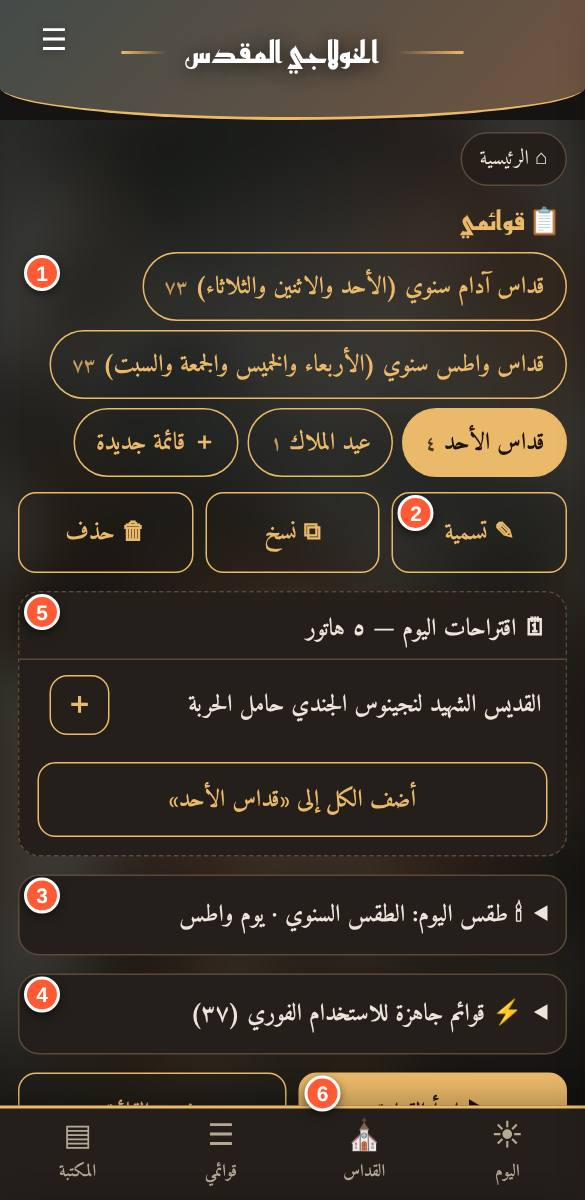
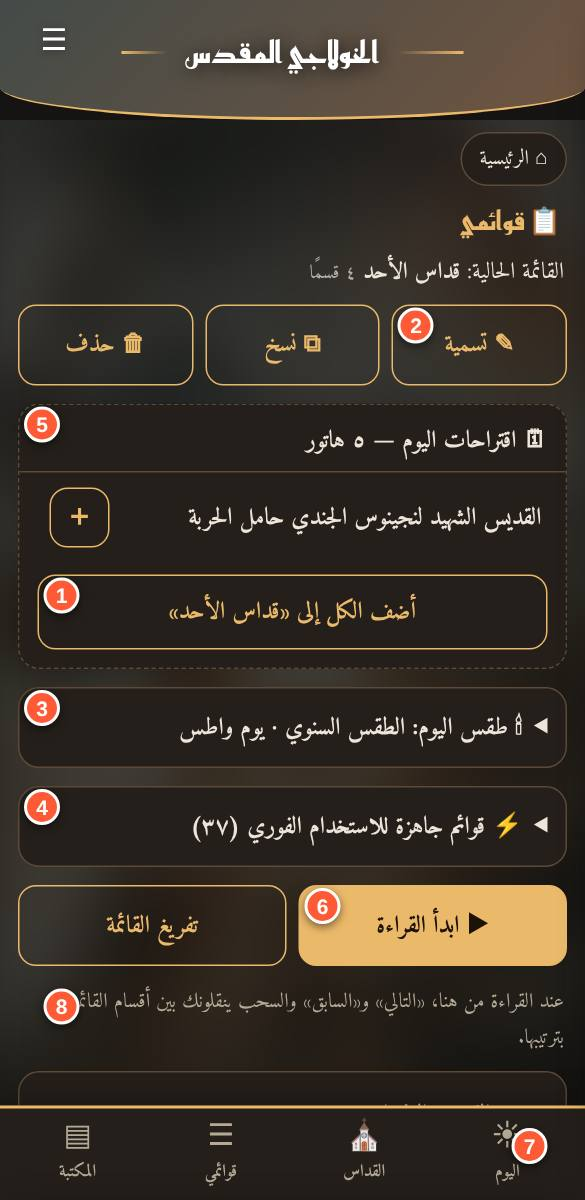
قائمة القوائم في أسفل «قوائمي» بدل شريط الاختصارات، مع حذف كل قائمة خاصة (1.5.9)
Claude-Session: https://claude.ai/code/session_01TxsQH8W41ZBNhnMhe9bVaK

Changed region(s): [[0.0308, 0.2158, 0.9846, 0.9867], [0.2154, 0.8942, 0.2462, 0.925], [0.0308, 0.8942, 0.0615, 0.925]]

diff --git a/index.html b/index.html
@@ -569,6 +569,7 @@ html{scroll-padding-top:var(--tbh,0px)}
 .vx{display:flex;align-items:center;gap:10px;margin:2px 14px;color:var(--acc)}
 .vx:before,.vx:after{content:"";flex:1;height:2px;background:linear-gradient(90deg,transparent,var(--acc),transparent);opacity:.55}
 .vx span{font-size:calc(var(--fs)*.9);line-height:1}
+.dxcur{margin:0 14px 8px;font-size:calc(var(--fs)*.7)}.dxcur small{opacity:.7}.dxall .dxi.cur{border-color:var(--acc)}
 .dxpre{margin:0 12px 12px;border:1.5px solid var(--line);border-radius:14px;background:var(--card)}.dxpre>summary{padding:12px;font-weight:700;cursor:pointer}
 .dxtd .dxsn{display:block;padding:0 14px 6px;color:var(--mute);font-size:.8rem}
 .dxi .go small{display:block;font-weight:400;font-size:0.72rem;color:var(--mute)}
@@ -1324,7 +1325,7 @@ function dxPresets(){
   out.sort(function(a,b){return (b.t?1:0)-(a.t?1:0)});return out}
 function dxView(){
   var d=dxd(),c=dxc(),a=c.items.filter(function(id){return BYID[id]}),h='<div class="crumb"><button data-nav="#/">⌂ الرئيسية</button></div><div class="gh"><h2>📋 قوائمي</h2></div>';
-  h+='<div class="dxtabs">'+d.lists.map(function(x){return '<button class="'+(x.id===d.cur?'on':'')+'" data-dxsw="'+x.id+'">'+esc(x.name)+' <small>'+ar9(x.items.length)+'</small></button>'}).join("")+'<button data-dxnew="1">＋ قائمة جديدة</button></div>';
+  h+='<div class="dxcur">القائمة الحالية: <b>'+esc(c.name)+'</b> <small>'+ar9(c.items.length)+' قسمًا</small></div>';
   var fx=!!c.fixed;
   h+=fx?'<div class="dxbar"><button data-dxdup="1">⧉ انسخها لتعدّل عليها</button></div><p class="hint" style="margin:0 14px 8px">🔒 قائمة ثابتة: تتجدد مع تحديث المحتوى ولا تُحذف ولا يُعاد ترتيبها.</p>':'<div class="dxbar"><button data-dxren="1">✎ تسمية</button><button data-dxdup="1">⧉ نسخ</button><button data-dxrmlist="1">🗑 حذف</button></div>';
   var t=dxToday();
@@ -1336,6 +1337,7 @@ function dxView(){
   else{h+='<div class="dxbar"><button class="pri" data-dxgo="'+a[0]+'">▶ ابدأ القراءة</button>'+(fx?'':'<button data-dxclear="1">تفريغ القائمة</button>')+'</div><p class="hint" style="margin:0 14px 10px">عند القراءة من هنا، «التالي» و«السابق» والسحب ينقلونك بين أقسام القائمة بترتيبها.</p><div class="dxl">';
     a.forEach(function(id,i){h+='<div class="dxi"><span class="n">'+ar9(i+1)+'</span><button class="go" data-dxgo="'+id+'">'+esc(BYID[id].title)+'<small>'+esc(BYID[id].group.title)+'</small></button>'+(fx?'':'<button class="mv" data-dxmv="'+id+'" data-d="-1" '+(i?'':'disabled')+' aria-label="أعلى">▲</button><button class="mv" data-dxmv="'+id+'" data-d="1" '+(i<a.length-1?'':'disabled')+' aria-label="أسفل">▼</button><button class="mv" data-dxdel="'+id+'" aria-label="حذف">✕</button>')+'</div>'});
     h+='</div>'}
+  h+='<div class="h2"><span>كل قوائمي</span></div><div class="dxall">'+d.lists.map(function(x){return '<div class="dxi'+(x.id===d.cur?' cur':'')+'"><button class="go" data-dxsw="'+x.id+'">'+(x.fixed?'🔒 ':'')+esc(x.name)+'<small>'+ar9(x.items.length)+' قسمًا'+(x.id===d.cur?' · الحالية':'')+'</small></button>'+(x.fixed?'':'<button class="mv" data-dxrmid="'+x.id+'" aria-label="حذف القائمة">🗑</button>')+'</div>'}).join("")+'<div class="dxbar"><button data-dxnew="1">＋ قائمة جديدة</button></div></div>';
   h+='<div class="dxbar"><button data-ks="export">💾 نسخة احتياطية للقوائم والإعدادات</button></div>'+bnav('');app.innerHTML=h;window.scrollTo(0,0)}
 var CMN=["توت","بابة","هاتور","كيهك","طوبة","أمشير","برمهات","برمودة","بشنس","بؤونة","أبيب","مسرى","النسيء"];
 var OCCL=[["nayrouz","عيد النيروز"],["cross","عيد الصليب"],["nativity","الميلاد"],["kiahk","شهر كيهك"],["kiahk-sun1","أحد كيهك الأول"],["kiahk-sun2","أحد كيهك الثاني"],["kiahk-sun3","أحد كيهك الثالث"],["kiahk-sun4","أحد كيهك الرابع"],["epiphany","الغطاس"],["nineveh","صوم نينوى"],["lent","الصوم الكبير"],["lent-sun1","الأحد الأول من الصوم الكبير"],["lent-sun2","الأحد الثاني من الصوم الكبير"],["lent-sun3","الأحد الثالث من الصوم الكبير"],["lent-sun4","الأحد الرابع من الصوم الكبير"],["lent-sun5","الأحد الخامس من الصوم الكبير"],["lent-sun6","الأحد السادس من الصوم الكبير"],["lentfri","جمعة ختام الصوم"],["lazarus","سبت لعازر"],["palm","أحد الشعانين"],["holyweek","أسبوع الآلام"],["joysat","سبت الفرح"],["resurrection","القيامة"],["pascha","الخمسين المقدسة"],["thomas","أحد توما"],["pascha-sun2","الأحد الثاني من الخمسين"],["pascha-sun3","الأحد الثالث من الخمسين"],["pascha-sun4","الأحد الرابع من الخمسين"],["pascha-sun5","الأحد الخامس من الخمسين"],["pascha-sun6","الأحد السادس من الخمسين"],["ascension","الصعود"],["pentecost","العنصرة"],["apostlesfast","صوم الرسل"],["apostles","عيد الرسل"],["annunciation","البشارة"],["virgin","السيدة العذراء"],["michael","رئيس الملائكة ميخائيل"]];
@@ -1469,6 +1471,7 @@ app.addEventListener("click",function(e){
   if(e.target.closest("[data-dxnew]")){var nn=prompt("اسم القائمة الجديدة (مثال: قداس الأحد)");if(nn&&nn.trim()){var d2=dxd(),id2="l"+Date.now();d2.lists.push({id:id2,name:nn.trim(),items:[]});d2.cur=id2;dxw(d2)}dxView();return}
   if(e.target.closest("[data-dxren]")){var d3=dxd(),c3=dxc(),rn=prompt("اسم القائمة",c3.name);if(rn&&rn.trim()){d3.lists.forEach(function(x){if(x.id===d3.cur)x.name=rn.trim()});dxw(d3)}dxView();return}
   if(e.target.closest("[data-dxdup]")){var d4=dxd(),c4=dxc(),id4="l"+Date.now();d4.lists.push({id:id4,name:c4.name+" (نسخة)",items:c4.items.slice()});d4.cur=id4;dxw(d4);dxView();return}
+  var rm=e.target.closest("[data-dxrmid]");if(rm){var rid=rm.getAttribute("data-dxrmid"),dr=dxd(),nm=(dr.lists.filter(function(x){return x.id===rid})[0]||{}).name;if(confirm("حذف القائمة «"+nm+"»؟")){dr.lists=dr.lists.filter(function(x){return x.id!==rid});dxw(dr)}dxView();return}
   if(e.target.closest("[data-dxrmlist]")){var c5=dxc();if(confirm("حذف القائمة «"+c5.name+"»؟")){var d5=dxd();d5.lists=d5.lists.filter(function(x){return x.id!==d5.cur});dxw(d5)}dxView();return}
   if(e.target.closest("[data-dxaddtoday]")){var a6=dxl().slice();dxToday().dx.forEach(function(x){if(a6.indexOf(x.id)<0)a6.push(x.id)});dxs(a6);dxView();return}
   var qf=e.target.closest("[data-qfs]");if(qf){S.fs=Math.max(14,Math.min(40,S.fs+parseInt(qf.getAttribute("data-qfs"),10)));save();apply();return}

diff --git a/tools/make-guide.js b/tools/make-guide.js
@@ -29,7 +29,7 @@ const SPECS=[
  marks:[['.jin','ما هذه الخريطة؟','شرح قصير للفكرة.'],['.jt.hr','أنت هنا','المحطة التي تقابل ما تقرؤه الآن.'],['.jt:nth-of-type(1) .jm','يقابل في القداس','الجزء من القداس الذي يقابل هذه المحطة.']],
  nav:'في أعلى القراءة: اضغط الصف لتصغير الشريط لدوائر المحطات فقط، وبنفس الضغطة يكبر.'},
 {id:'lists',title:'قوائمي',hash:'#/dxlist',summary:'تجمّع قبل القداس الأقسام التي ستصليها، بالترتيب الذي تريده، وتقرؤها بعدها متتالية.',
- marks:[['.dxtabs','القوائم','لكل قائمة اسم (مثلا قداس الأحد). اضغط لتبديلها، أو «＋ قائمة جديدة».'],['[data-dxren]','تسمية · نسخ · حذف','إدارة القائمة الحالية.'],['.rtc','طقس اليوم','الطقس ويوم آدام/واطس وألحان اليوم وأواشيه؛ اضغط لفتح التفاصيل.'],['.dxpre','قوائم جاهزة','قوائم مرتبة لكل مناسبة ولأي أحد؛ اضغط واحدة لتُنسخ إلى قوائمك.'],['.dxtd','اقتراحات اليوم','ذكصولوجيات تناسب اليوم. ＋ لإضافتها، أو «أضف الكل».'],['.dxbar .pri','ابدأ القراءة','يقرأ من أول قسم ويتنقل بترتيب القائمة.'],['.dxi .n','الترتيب','رقم القسم في القائمة.'],['.dxi .mv','▲ ▼ ✕','تحريك القسم لأعلى أو لأسفل أو حذفه.']]},
+ marks:[['.dxall','كل قوائمي','قائمتا آدام وواطس الثابتتان أولا ثم قوائمك. اضغط قائمة لفتحها، 🗑 لحذف قائمتك، أو «＋ قائمة جديدة».'],['[data-dxren]','تسمية · نسخ · حذف','إدارة القائمة الحالية.'],['.rtc','طقس اليوم','الطقس ويوم آدام/واطس وألحان اليوم وأواشيه؛ اضغط لفتح التفاصيل.'],['.dxpre','قوائم جاهزة','قوائم مرتبة لكل مناسبة ولأي أحد؛ اضغط واحدة لتُنسخ إلى قوائمك.'],['.dxtd','اقتراحات اليوم','ذكصولوجيات تناسب اليوم. ＋ لإضافتها، أو «أضف الكل».'],['.dxbar .pri','ابدأ القراءة','يقرأ من أول قسم ويتنقل بترتيب القائمة.'],['.dxi .n','الترتيب','رقم القسم في القائمة.'],['.dxi .mv','▲ ▼ ✕','تحريك القسم لأعلى أو لأسفل أو حذفه.']]},
 {id:'library',title:'المكتبة',hash:'#/lib',h:1000,summary:'كل محتوى الكتاب في مكان واحد.',
  marks:[['.search.lib','بحث','اضغط وابحث بالعربي أو القبطي.'],['.grid .g','أقسام الكتاب','رفع البخور، القداسات، القسمة، الذكصولوجيات، دليل الطقس وغيرها.'],['.chips','أدوات','الفهرس الكامل، تأملاتي (وما كتبته أنت)، ودراسة (مقارنة القداسات وقاموس القبطي).']]},
 {id:'occasions',title:'ألحان المناسبات',hash:'#/g/occ',summary:'ذكصولوجيات ومدائح كل مناسبة في مكان واحد، وتبقى ضمن اقتراحات اليوم.',

diff --git a/guide-news.js b/guide-news.js
@@ -1,7 +1,8 @@
 /* سجل الميزات الجديدة (الأحدث أولا). كل ميزة جديدة تُضاف هنا كمدخل جديد في أعلى القائمة،
    ثم تُحدَّث مواصفة الصفحة المتأثرة في tools/make-guide.js وتُعاد اللقطات (node tools/make-guide.js). */
-window.KG_VERSION="1.5.8";
+window.KG_VERSION="1.5.9";
 window.KG_NEWS=[
+{v:"1.5.9",t:"قائمة القوائم بدل الاختصارات",x:"اختفى شريط أسماء القوائم من أعلى «قوائمي». صار في أسفل الصفحة قسم «كل قوائمي»: قائمة رأسية مرتبة، أول اثنتين فيها قائمتا الأيام الآدام والأيام الواطس (🔒)، ثم قوائمك. اضغط أي قائمة لفتحها، وزر 🗑 بجانب كل قائمة خاصة لحذفها."},
 {v:"1.5.8",t:"قائمتا آدام وواطس ثابتتان في أول «قوائمي»",x:"«قداس آدام سنوي» و«قداس واطس سنوي» صارتا أول قائمتين دائما في «قوائمي»: ثابتتان (🔒) تتجددان مع المحتوى ولا تُحذفان ولا تُعدَّلان، ويمكن نسخهما لقائمة خاصة. وتُفتح تلقائيا القائمة المناسبة ليوم اليوم."},
 {v:"1.5.7",t:"قاعدة ثابتة لكل المدائح",x:"كل بيت في كل مدائح التوزيع (٤٣ مديحا) صار شطرين يمين وشطرين شمال، سطرا مقابل سطر، ولا يتجاوز شطر سطره. وأضيف فحص تلقائي يمنع أي مديح جديد من مخالفة القاعدة."},
 {v:"1.5.6",t:"مراجعة شطري كل بيت في كل المدائح",x:"روجعت كل مدائح التوزيع على صفحات الكتاب وصار كل بيت أربعة أشطر (شطران يمين وشطران شمال) سطرا مقابل سطر، مع الرد في خانة الشطر الأخير بالبيت الأول فقط. شملت المراجعة مدائح الصليب والميلاد والبشارة والقيامة والغطاس والعذراء وميخائيل والنيروز وأحاد كيهك والخمسين والشعانين ولعازر ونينوى والصعود والعنصرة والمدائح السنوية."},

diff --git a/sw.js b/sw.js
@@ -1,4 +1,4 @@
-const CACHE_NAME='khulagi-v1.5.8';
+const CACHE_NAME='khulagi-v1.5.9';
 const FILES=['./','index.html','icon-192.png','icon-512.png','guide-news.js','calendar.js','content-tawzi.txt','guide-pages.js','guide/doxologies.jpg','guide/occasions.jpg','guide/library.jpg','guide/lists.jpg','guide/lit.jpg','guide/notes.jpg','guide/post.jpg','guide/pre.jpg','guide/reader.jpg','guide/settings.jpg','guide/sidx.jpg','guide/splash.jpg','guide/story.jpg','guide/today.jpg','reemkufi-arabic-700-normal.woff2','dawn.jpg','data.js','study.js','swipe.js','live.js','story.js','study-data.js','data-bible.js','content-raf.txt','content-bas.txt','content-greg.txt','content-cyr.txt','content-qisam.txt','content-misc.txt','content-bless.txt','content-app.txt','content-taqs.txt','content-dox.txt','manifest.webmanifest','amiri-arabic-400-normal.woff2','amiri-arabic-700-normal.woff2','amiri-latin-400-normal.woff2','tajawal-arabic-400.woff2','tajawal-latin-400.woff2','tajawal-arabic-700.woff2','tajawal-latin-700.woff2','cairo-arabic-400-normal.woff2','cairo-arabic-700-normal.woff2','el-messiri-arabic-400-normal.woff2','el-messiri-arabic-700-normal.woff2','lateef-arabic-400-normal.woff2','lateef-arabic-700-normal.woff2','markazi-text-arabic-400-normal.woff2','markazi-text-arabic-700-normal.woff2','noto-naskh-arabic-arabic-400-normal.woff2','noto-naskh-arabic-arabic-700-normal.woff2','reem-kufi-arabic-400-normal.woff2','reem-kufi-arabic-700-normal.woff2','scheherazade-new-arabic-400-normal.woff2','scheherazade-new-arabic-700-normal.woff2','amiri-latin-700-normal.woff2','noto-sans-coptic-coptic-400-normal.woff2','noto-sans-coptic-latin-400-normal.woff2'];
 self.addEventListener('install',e=>{e.waitUntil(caches.open(CACHE_NAME).then(c=>Promise.all(FILES.map(f=>c.add(new Request(f,{cache:'reload'})).catch(()=>{})))).then(()=>self.skipWaiting()))});
 self.addEventListener('activate',e=>{e.waitUntil(caches.keys().then(k=>Promise.all(k.filter(x=>x!==CACHE_NAME).map(x=>caches.delete(x)))).then(()=>self.clients.claim()))});

diff --git a/guide-pages.js b/guide-pages.js
@@ -251,8 +251,8 @@ window.KG_PAGES=[
   "items": [
    [
     1,
-    "القوائم",
-    "لكل قائمة اسم (مثلا قداس الأحد). اضغط لتبديلها، أو «＋ قائمة جديدة»."
+    "كل قوائمي",
+    "قائمتا آدام وواطس الثابتتان أولا ثم قوائمك. اضغط قائمة لفتحها، 🗑 لحذف قائمتك، أو «＋ قائمة جديدة»."
    ],
    [
     2,
@@ -278,6 +278,16 @@ window.KG_PAGES=[
     6,
     "ابدأ القراءة",
     "يقرأ من أول قسم ويتنقل بترتيب القائمة."
+   ],
+   [
+    7,
+    "الترتيب",
+    "رقم القسم في القائمة."
+   ],
+   [
+    8,
+    "▲ ▼ ✕",
+    "تحريك القسم لأعلى أو لأسفل أو حذفه."
    ]
   ],
   "nav": ""
